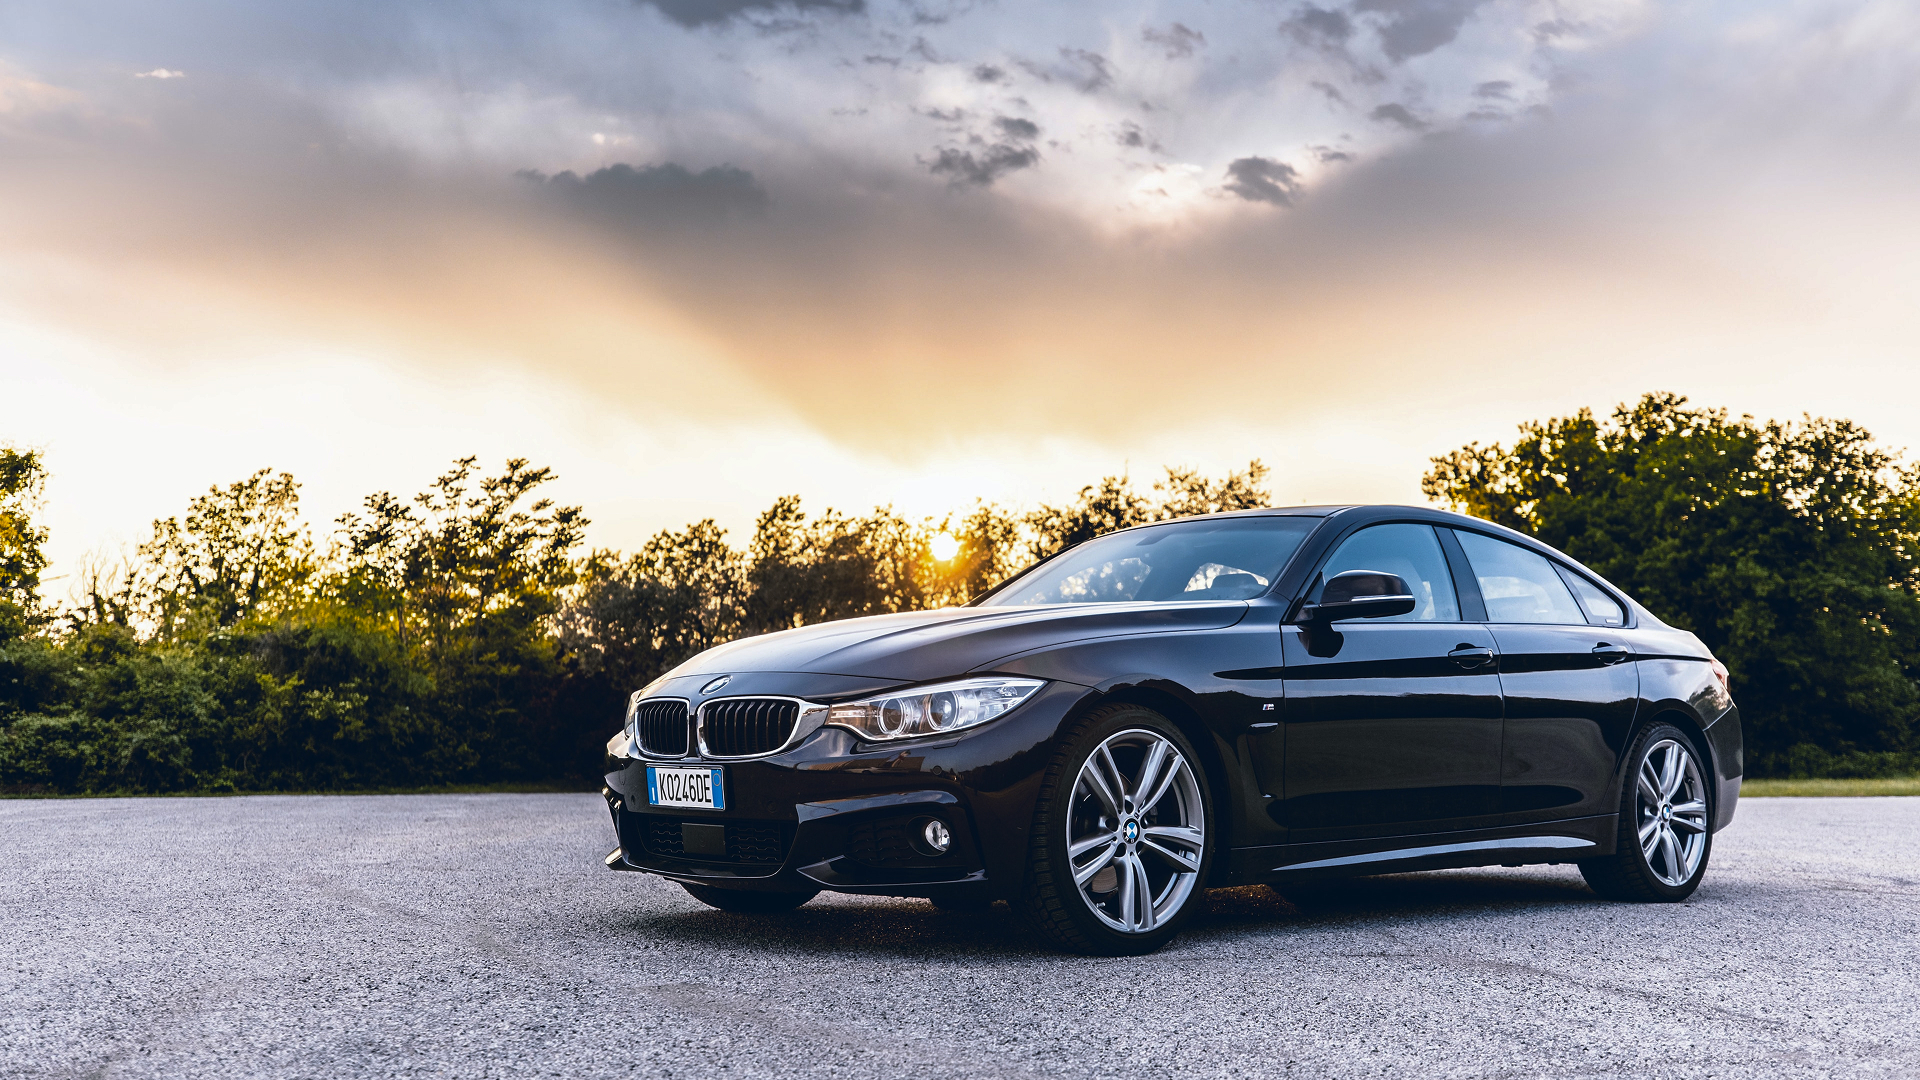
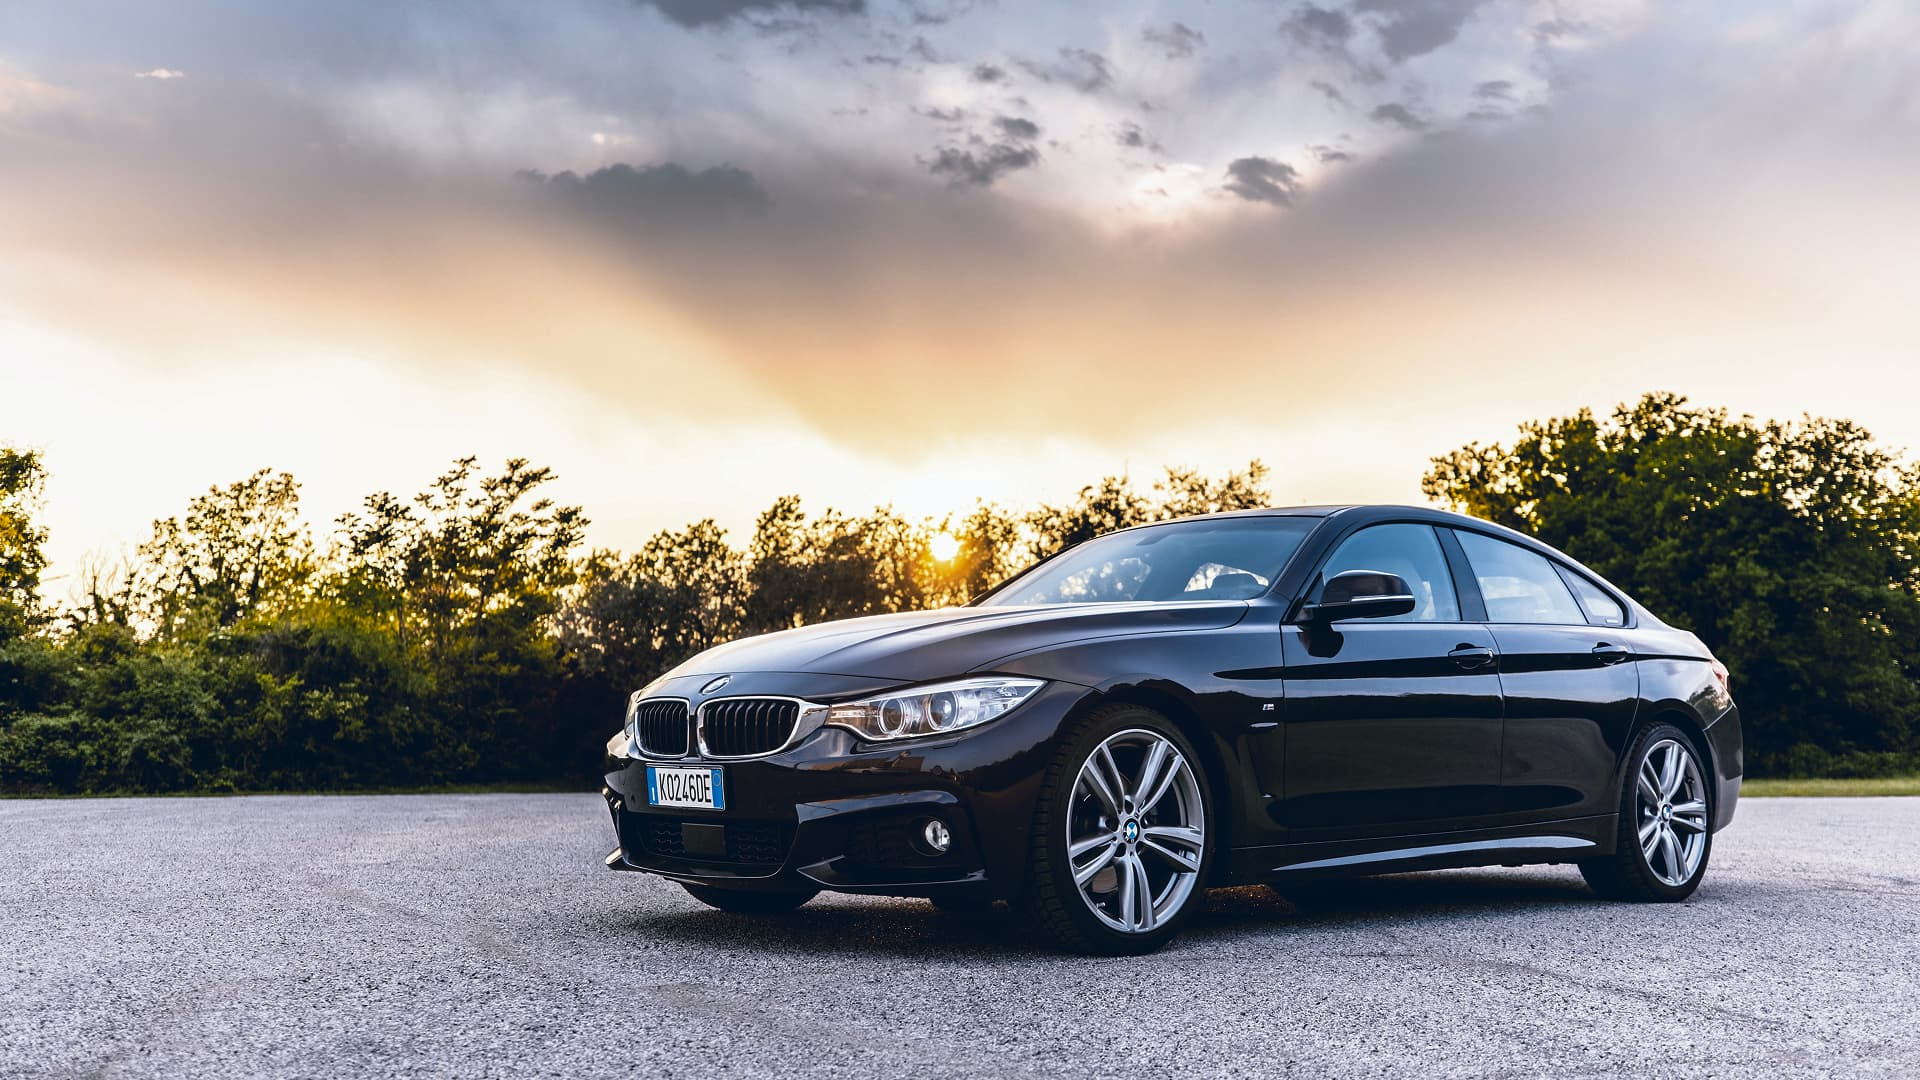
Update slider

diff --git a/index.html b/index.html
@@ -68,10 +68,10 @@
           <div class="swiper">
             <div class="swiper-wrapper">
               <!-- Slides -->
-              <div class="swiper-slide" style="background-image: url(./images/header/slide-1.jpg)"></div>
-              <div class="swiper-slide" style="background-image: url(./images/header/slide-1.jpg)"></div>
-              <div class="swiper-slide" style="background-image: url(./images/header/slide-1.jpg)"></div>
-              <div class="swiper-slide" style="background-image: url(./images/header/slide-1.jpg)"></div>
+              <div class="swiper-slide" style="background-image: url(./images/header/slide-1.webp)"></div>
+              <div class="swiper-slide" style="background-image: url(./images/header/slide-2.webp)"></div>
+              <div class="swiper-slide" style="background-image: url(./images/header/slide-3.webp)"></div>
+              <div class="swiper-slide" style="background-image: url(./images/header/slide-1.webp)"></div>
    
             </div>
             <div class="swiper-pagination"></div>

diff --git a/css/style.css b/css/style.css
@@ -138,7 +138,7 @@ body {
   z-index: 5;
   color: #fff;
   text-align: center;
-  padding-top: 105px;
+  padding-top: 250px;
   padding-bottom: 50px;
 }
 
@@ -159,10 +159,40 @@ body {
   font-size: 36px;
 }
 
-.swiper-wrapper {
+.swiper::after {
+  content: '';
+  position: absolute;
+  inset: 0;
+  z-index: 5;
   background-color: rgba(21, 21, 21, 0.3);
 }
 
+
+
 .swiper-slide {
+  background-repeat: no-repeat;
+  background-size: cover;
+  background-position: center;
   height: 100vh;
+}
+
+.swiper-pagination-bullet {
+  width: 120px;
+  height: 3px;
+  background-color: #151515;
+  border-radius: 0;
+  opacity: 1;
+}
+.swiper-pagination-bullet-active {
+  height: 6px;
+  background-color: #fff;
+}
+
+.swiper-pagination-horizontal.swiper-pagination-bullets
+  .swiper-pagination-bullet {
+  margin: 0 15px;
+}
+
+.swiper-pagination-bullets.swiper-pagination-horizontal {
+  bottom: 50px;
 }

diff --git a/js/main.js b/js/main.js
@@ -1,5 +1,14 @@
 const swiper = new Swiper(".swiper", {
+  effect: "fade",
+  loop: true,
+
   pagination: {
     el: ".swiper-pagination",
+    clickable: true,
+  },
+
+  autoplay: {
+    delay: 3000,
+    disableOnInteraction: false,
   },
 });
